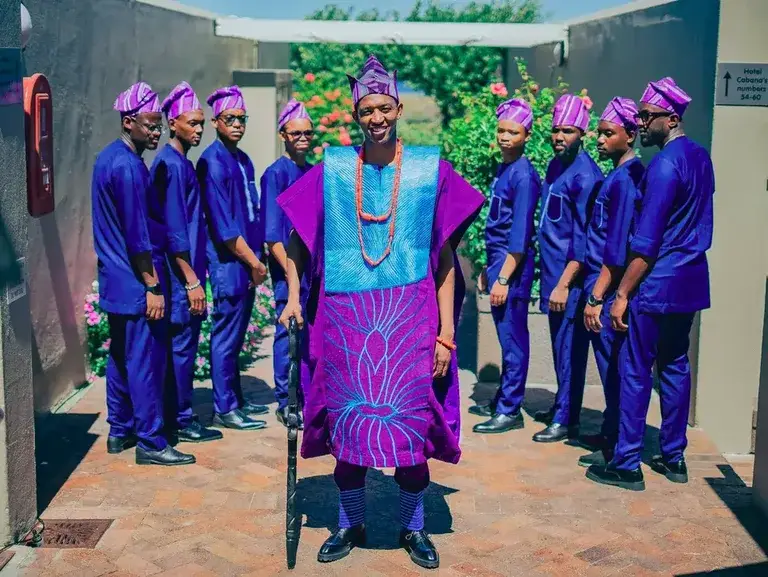
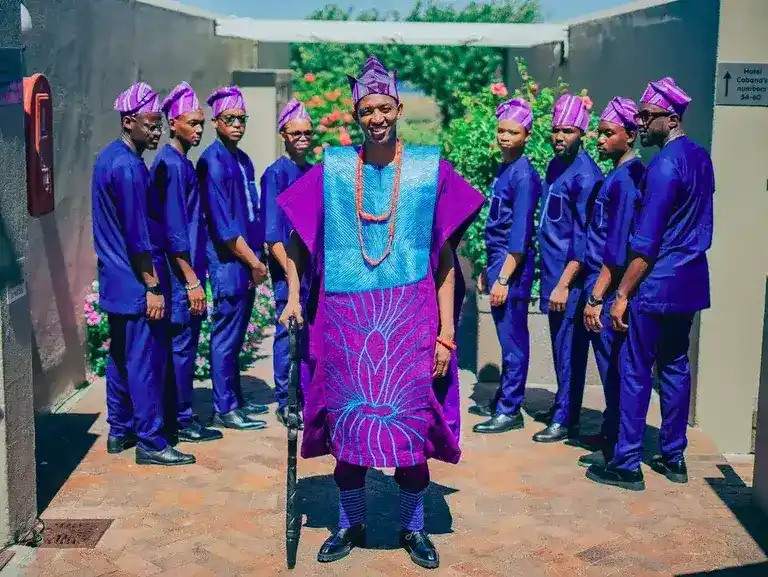
Improve mobile Lighthouse performance

diff --git a/script.js b/script.js
@@ -391,6 +391,10 @@
   function openGalleryModal(pushUrl = true) {
     const overlay = document.getElementById('gallery-overlay');
     if (!overlay) return;
+    if (!overlay.dataset.imagesPrepared) {
+      prepareGalleryImages(overlay);
+      overlay.dataset.imagesPrepared = 'true';
+    }
     overlay.hidden = false;
     void overlay.offsetWidth;
     overlay.classList.add('open');
@@ -450,8 +454,6 @@
     const trigger = document.getElementById('portfolio-toggle');
     const closeBtn = document.getElementById('gallery-close');
     if (!overlay || !trigger) return;
-    prepareGalleryImages(overlay);
-
     trigger.addEventListener('click', (event) => {
       event.preventDefault();
       openGalleryModal();

diff --git a/styles.css b/styles.css
@@ -454,12 +454,14 @@ button {
 .hero-eyebrow::after { transform: scaleX(-1); }
 .hero-eyebrow::before, .hero-eyebrow::after {
   content: "";
-  width: 0;
+  width: 2.5rem;
   height: 1px;
   background: linear-gradient(90deg, transparent, var(--color-line));
+  transform: scaleX(0);
+  transform-origin: center;
   animation: heroLine 0.8s ease-out 0.6s forwards;
 }
-@keyframes heroLine { to { width: 2.5rem; } }
+@keyframes heroLine { to { transform: scaleX(1); } }
 
 /* -------- "Isaac Media" title with viewfinder corner brackets -------- */
 .hero-title {
